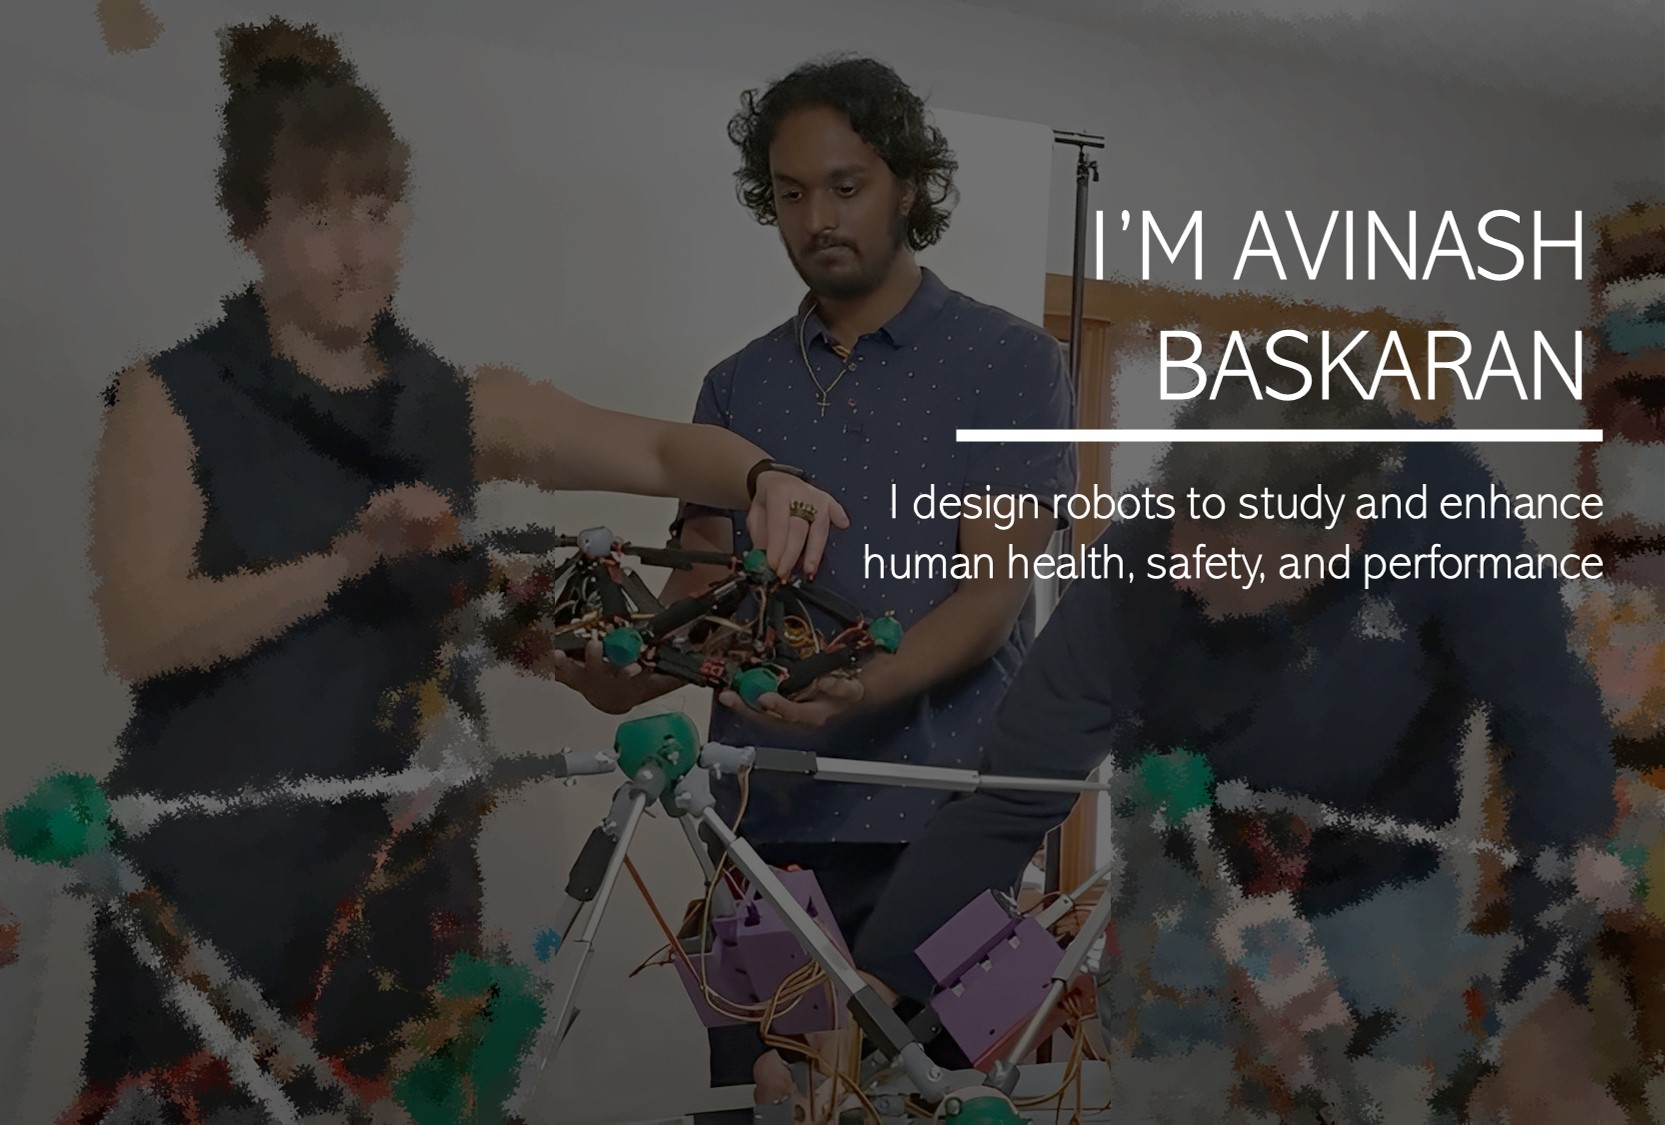
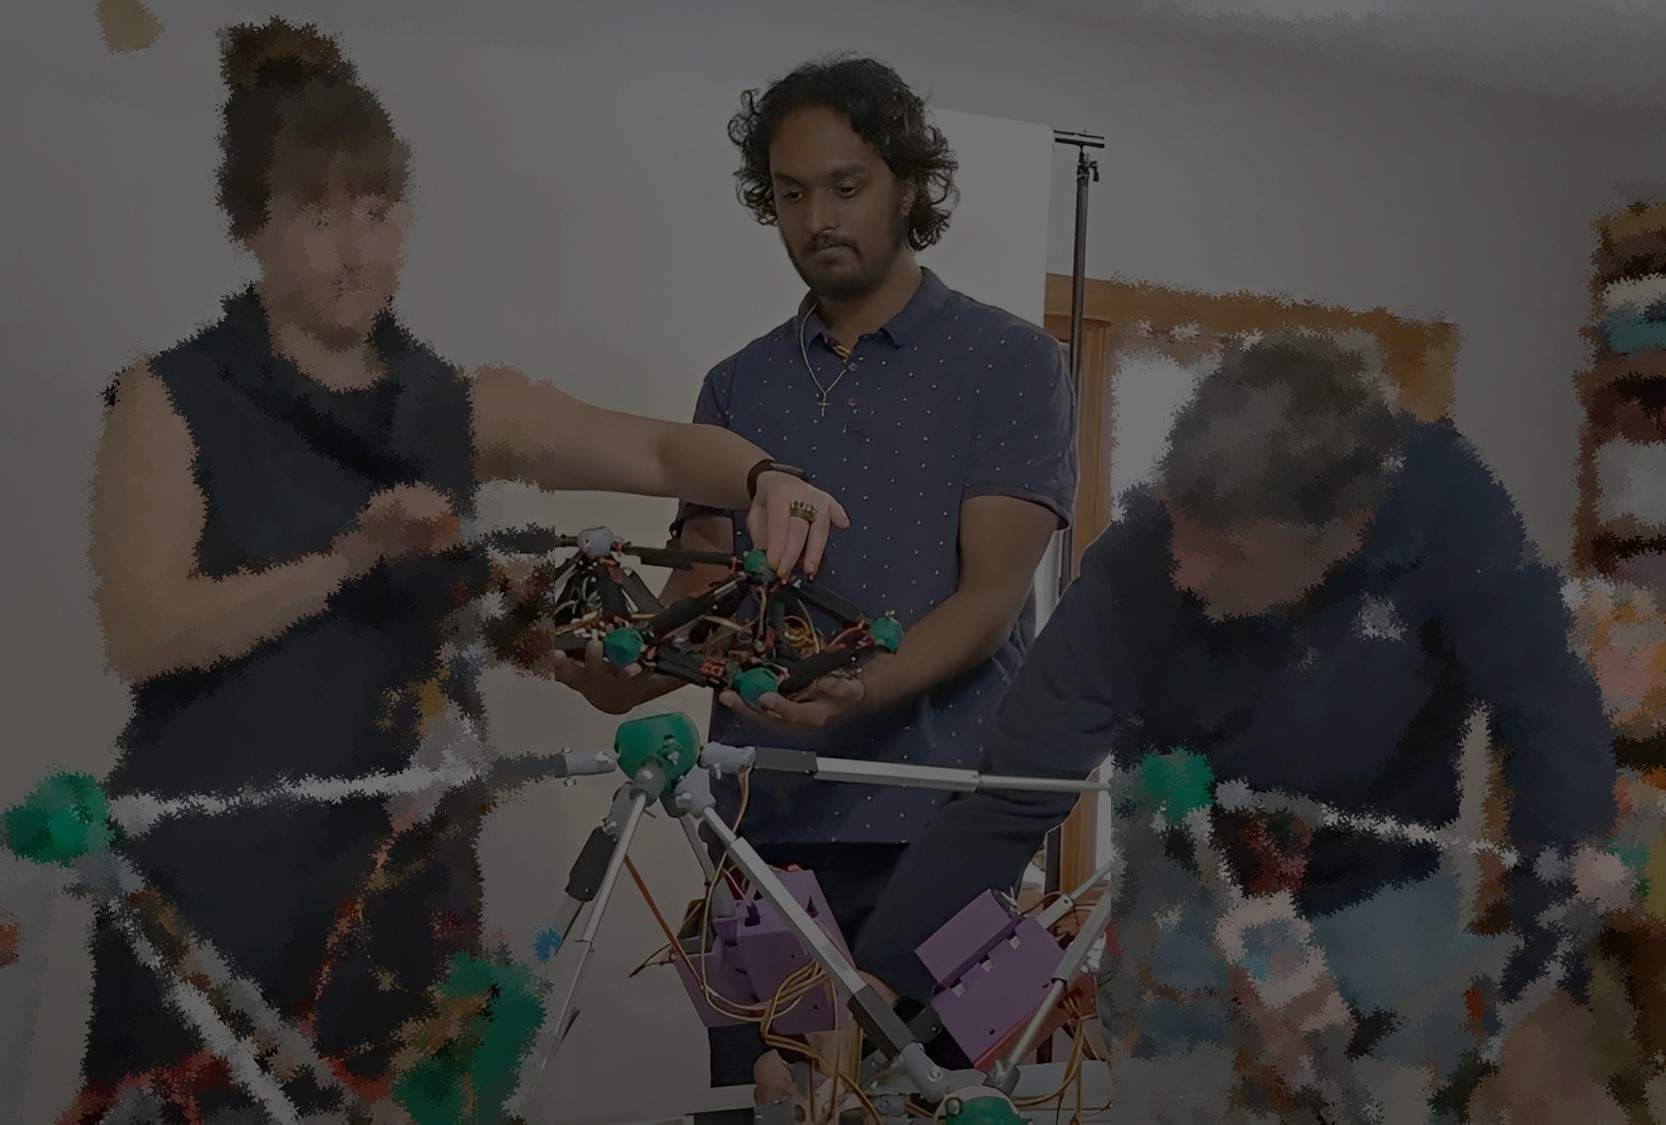
update

Changed region(s): [[0.5622, 0.28, 0.9682, 0.4044], [0.5309, 0.4356, 0.9682, 0.5289], [0.6559, 0.1867, 0.9682, 0.2489]]

diff --git a/index.html b/index.html
@@ -143,23 +143,32 @@
         <div class="sidebar"> -->
             <!-- <div class="container"> -->
 <body style="font-family:Verdana;font-size:24px; background-color:#16161e;">
-    <div class="centered" style="margin-top: 0%;">
-        <a href="https://www.linkedin.com/in/avinashbaskaran/">
+    <div class="centered">
+        <p style="color: #ccc;text-align: center;font-size: 30px;margin-bottom:25vh;">
+            <b>I'M AVINASH BASKARAN</b>
+        </p>
+        </div>
+
+        <div class="centered" style="margin-top: 20vh;margin-left:5vw;">        
+            <a href="https://www.linkedin.com/in/avinashbaskaran/">
             <img src="04_Images/linkedin.png" width="50vw" height="50vw"
-            style="margin-left: -40%;"
+            style="margin-left: -30%;"
             /></a>
-            <br><br>
+            <!-- <br><br> -->
         <a href="mailto:baskaran.avinash@gmail.com">
             <img src="04_Images/gmail.png" width="50vw" height="50vw"
-            style="margin-left: -40%;"/></a>
-            <br><br>
+            style="margin-left: 10%;"
+            /></a>
+            <!-- <br><br> -->
         <a href="https://scholar.google.com/citations?user=0ov7QL4AAAAJ&hl=en&oi=ao">
             <img src="04_Images/Google_Scholar_logo.png" width="50vw" height="50vw"
-            style="margin-left: -40%;"/></a>
-            <br><br>
+            style="margin-left: 10%;"
+            /></a>
+            <!-- <br><br> -->
         <a href="https://github.com/avinashbaskaran?tab=repositories">
             <img src="04_Images/github.png" width="50vw" height="50vw"
-            style="margin-left: -40%;"/></a>
+            style="margin-left: 10%;"
+            /></a>
     </div>
 
     <div class="topnav" style="width:98vw;text-align: center;">
